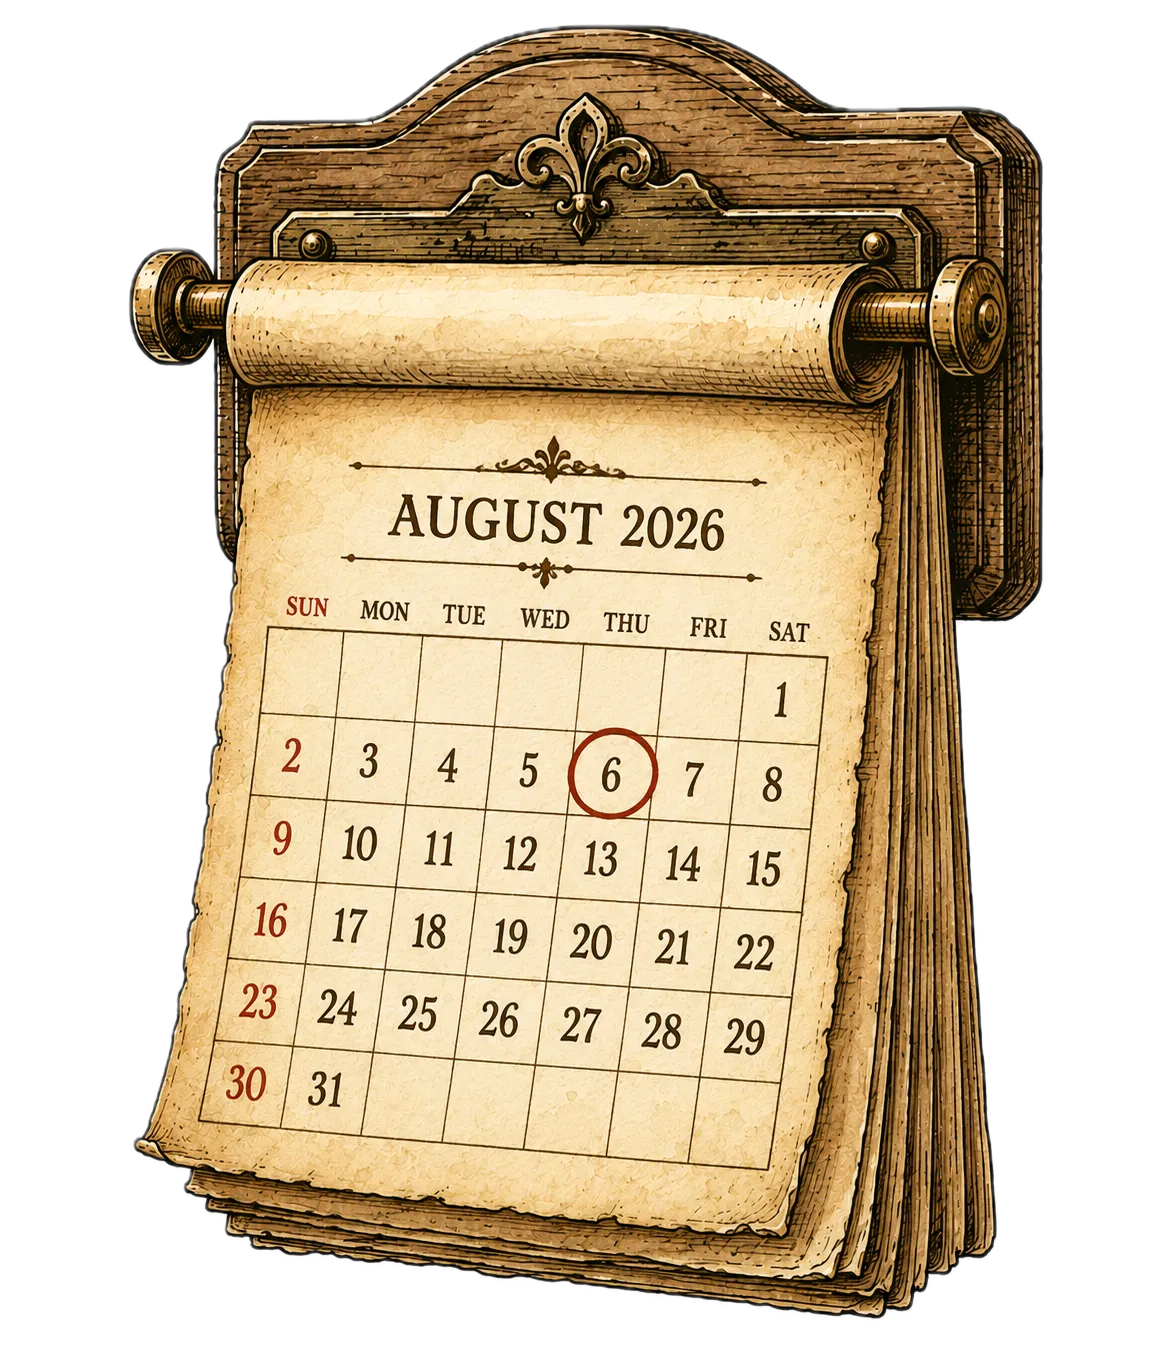
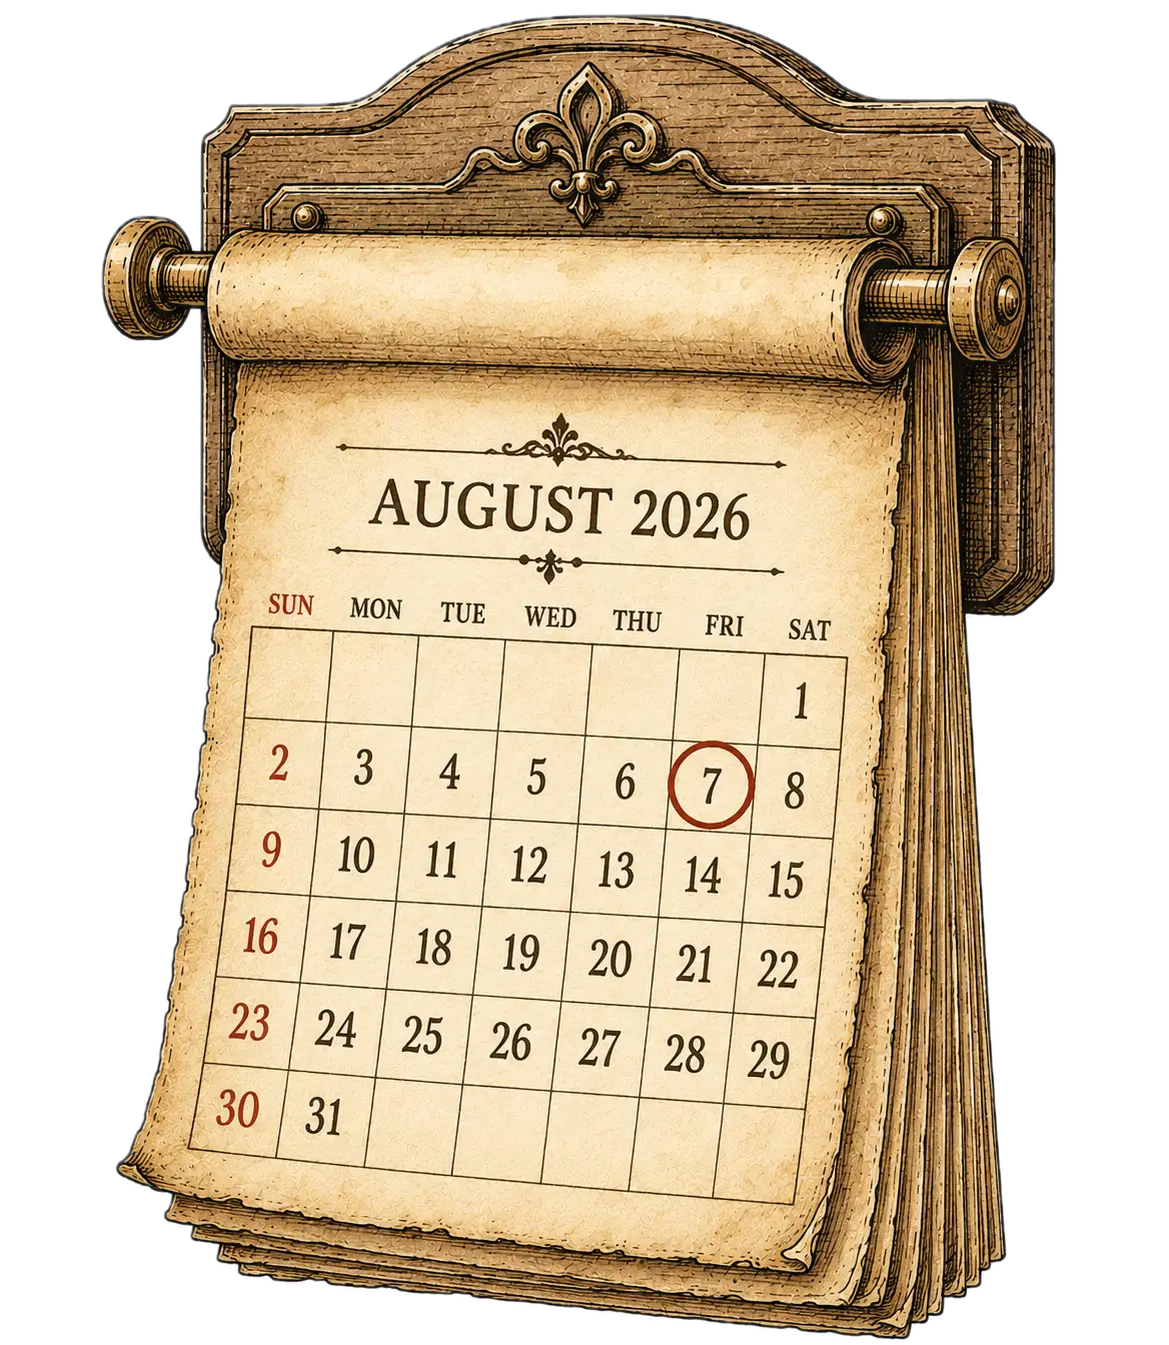
final corrections hopefully

diff --git a/index.html b/index.html
@@ -715,7 +715,7 @@
         </div>
       </div>
       <p class="hero-sub">
-        <span class="dept">Marian College Kuttikkanam</span><span class="divider">·</span>Autonomous
+        <span class="dept">Marian College Kuttikkanam Autonomous</span>
       </p>
       <p class="hero-dates">07 AUGUST 2026 &nbsp;•&nbsp; 9:30 AM – 3:30 PM &nbsp;•&nbsp; LOGOS & SOPHOS TRAINING HALL</p>
     </div>
@@ -755,7 +755,7 @@
         </div>
         <div class="detail-row">
           <span class="detail-label">Venue</span>
-          <span class="detail-value">LOGOS & SOPHOS Training Hall, Marian College Kuttikkanam (Autonomous)</span>
+          <span class="detail-value">LOGOS & SOPHOS Training Hall, Marian College Kuttikkanam Autonomous</span>
         </div>
         <div class="detail-row">
           <span class="detail-label">Organized&nbsp;by</span>
@@ -798,7 +798,7 @@
         <a href="https://docs.google.com/forms/d/e/1FAIpQLSdmhzCG2Z3Ew3hyXMxLRy3KtreSIBmzwrF4-Ca8HKtZuZgk9A/viewform?usp=pp_url&entry.1868468914=Quiz" class="btn">
           <span class="btn-art"></span>
           <span class="btn-scrim"></span>
-          <span class="btn-label">Register for Quiz</span>
+          <span class="btn-label">Click Here to Register</span>
         </a>
       </div>
       <!-- PRESENTATION PANEL -->
@@ -828,7 +828,7 @@
         <a href="https://docs.google.com/forms/d/e/1FAIpQLSdmhzCG2Z3Ew3hyXMxLRy3KtreSIBmzwrF4-Ca8HKtZuZgk9A/viewform?usp=pp_url&entry.1868468914=Presentation" class="btn">
           <span class="btn-art"></span>
           <span class="btn-scrim"></span>
-          <span class="btn-label">Register for Presentation</span>
+          <span class="btn-label">Click Here to Register</span>
         </a>
       </div>
     </div>
